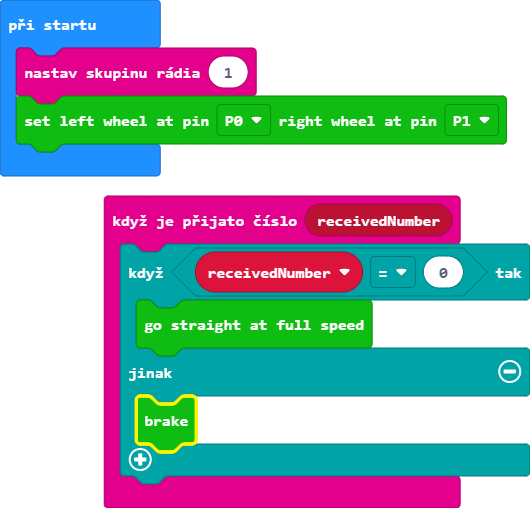
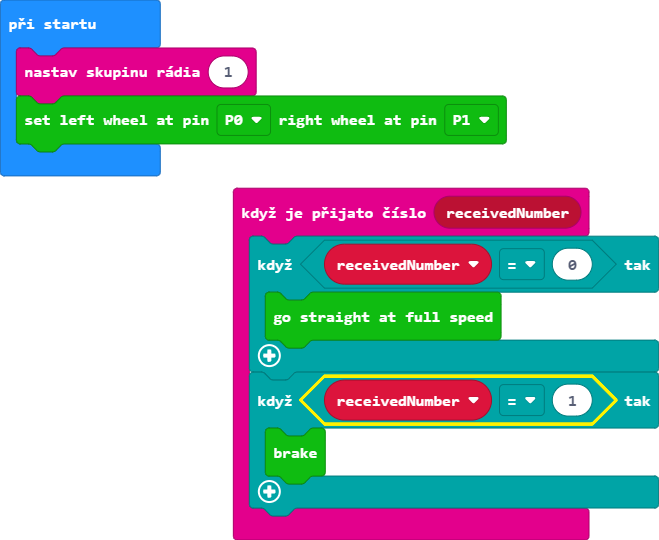
Aktualizovat main.blocks, main.ts

diff --git a/main.ts b/main.ts
@@ -1,7 +1,8 @@
 radio.onReceivedNumber(function (receivedNumber) {
     if (receivedNumber == 0) {
         RingbitCar.forward()
-    } else {
+    }
+    if (receivedNumber == 1) {
         RingbitCar.brake()
     }
 })
